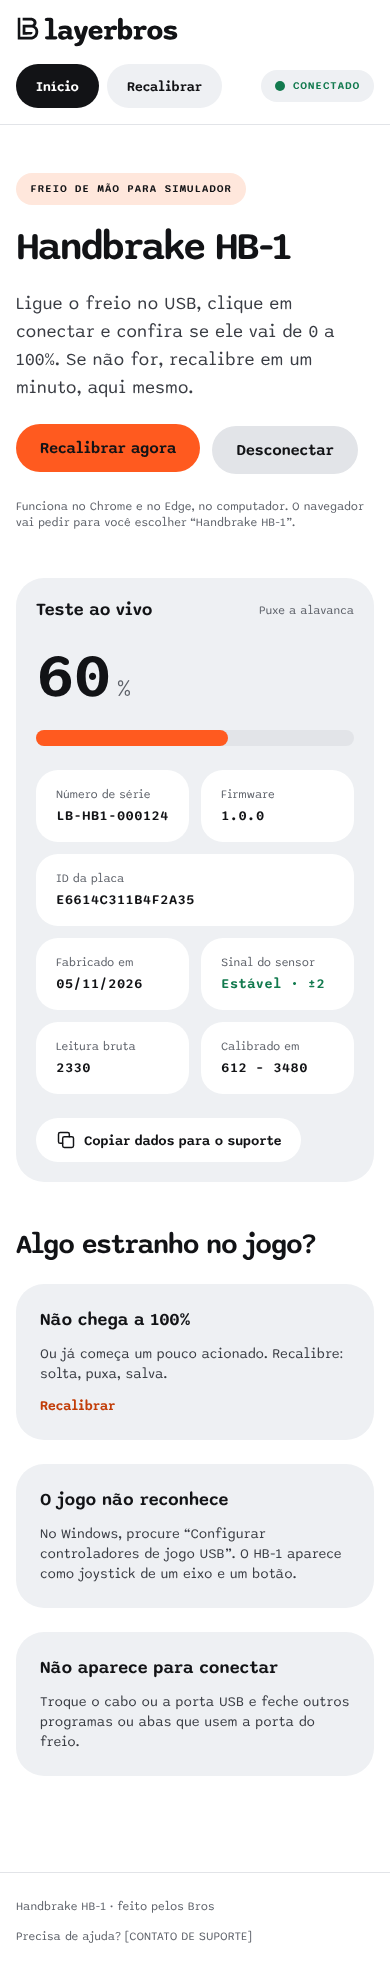
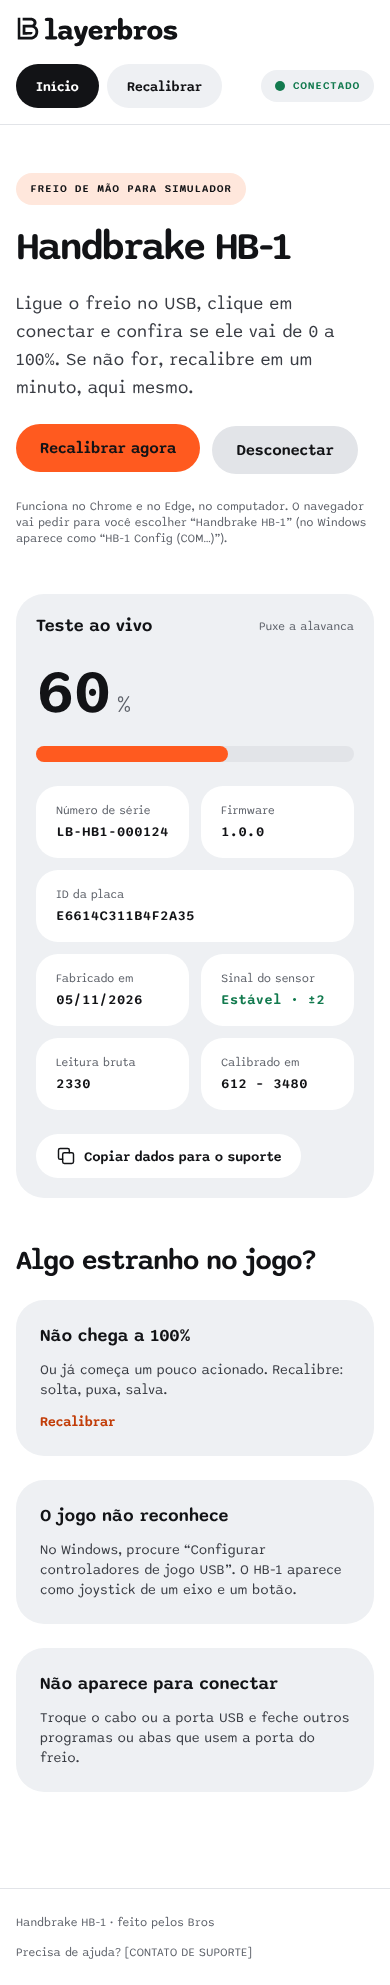
Windows: o freio aparece como "HB-1 Config (COM…)" no Chrome; avisar nas telas
Claude-Session: https://claude.ai/code/session_01E2HwirvCfEJV1VkP8qmM4h

diff --git a/web/recalibrar/index.html b/web/recalibrar/index.html
@@ -50,7 +50,7 @@
         <div class="stack" data-step="connect" style="align-items: flex-start">
           <span class="label">Passo 1 de 3</span>
           <h2 class="h2">Conecte o freio</h2>
-          <p class="body-sm" style="font-size: 16px; line-height: 24px; max-width: 520px">Ligue o HB-1 no USB e clique abaixo. Na janela do navegador, escolha “Handbrake HB-1” e clique em Conectar.</p>
+          <p class="body-sm" style="font-size: 16px; line-height: 24px; max-width: 520px">Ligue o HB-1 no USB e clique abaixo. Na janela do navegador, escolha “Handbrake HB-1” (no Windows: “HB-1 Config (COM…)”) e clique em Conectar.</p>
           <button type="button" class="btn btn--primary" id="btn-connect">Conectar freio de mão</button>
           <div class="alert" id="alert-connect" role="alert" hidden>
             <svg class="ic" viewBox="0 0 24 24" aria-hidden="true"><circle cx="12" cy="12" r="10"/><path d="M12 8v4"/><path d="M12 16h.01"/></svg>

diff --git a/web/index.html b/web/index.html
@@ -51,7 +51,7 @@
           <svg class="ic" viewBox="0 0 24 24" aria-hidden="true"><circle cx="12" cy="12" r="10"/><path d="M12 8v4"/><path d="M12 16h.01"/></svg>
           <span class="alert__text"></span>
         </div>
-        <p class="caption rise d5">Funciona no Chrome e no Edge, no computador. O navegador vai pedir para você escolher “Handbrake HB-1”.</p>
+        <p class="caption rise d5">Funciona no Chrome e no Edge, no computador. O navegador vai pedir para você escolher “Handbrake HB-1” (no Windows aparece como “HB-1 Config (COM…)”).</p>
       </div>
 
       <div class="panel rise d3">

diff --git a/web/assets/js/admin.js b/web/assets/js/admin.js
@@ -200,7 +200,7 @@ async function connectAfterFlash() {
     }
   }
   // Placa nova para este navegador: precisa de um clique para autorizar a porta.
-  $('#flash-label').textContent = 'Gravado. Clique em Conectar HB-1 e escolha “Handbrake HB-1”.';
+  $('#flash-label').textContent = 'Gravado. Clique em Conectar HB-1 e escolha “Handbrake HB-1” (no Windows: “HB-1 Config (COM…)”).';
   $('#btn-pick-hb1').hidden = false;
 }
 

diff --git a/docs/producao.md b/docs/producao.md
@@ -48,7 +48,7 @@ Nada a fazer.
    - Placa que já tem HB-1: conecte normalmente e clique em **Placa já tem HB-1**. Ela reinicia em BOOT sozinha. Na primeira vez com cada placa, o navegador pede um clique em **Selecionar RP2 Boot**.
    - Só recalibrar ou registrar (sem regravar): **Só calibrar e registrar**.
 2. **Gravar firmware.** Clique em **Gravar firmware**. Grava, verifica byte a byte e reinicia (alguns segundos). Não desconecte o cabo.
-3. **Conectar o HB-1.** Em geral conecta sozinho. Se for a primeira vez com essa placa neste navegador, clique em **Conectar HB-1** e escolha "Handbrake HB-1". A página confere que o ID da placa é o mesmo do passo 1.
+3. **Conectar o HB-1.** Em geral conecta sozinho. Se for a primeira vez com essa placa neste navegador, clique em **Conectar HB-1** e escolha "Handbrake HB-1" (no Windows aparece como **"HB-1 Config (Interface 0) (COMx)"**). A página confere que o ID da placa é o mesmo do passo 1.
 4. **Calibrar.**
    - Alavanca solta → **Gravar repouso**.
    - Alavanca no batente → **Gravar puxado**.

diff --git a/CHANGELOG.md b/CHANGELOG.md
@@ -4,7 +4,11 @@ Formato: [Keep a Changelog](https://keepachangelog.com/pt-BR/1.1.0/). Versões d
 
 ## [Não lançado]
 
-Nada ainda.
+### Alterado
+- Telas avisam que, no Windows, o freio aparece na janela do Chrome como "HB-1 Config (COM…)" e não como "Handbrake HB-1".
+
+### Documentação
+- Produção: Zadig aplicado por engano no HB-1 tira a porta serial (lista do Chrome vazia); diagnóstico por `chrome://device-log` e correção.
 
 ## Site 1.1 — 2026-11-05
 
